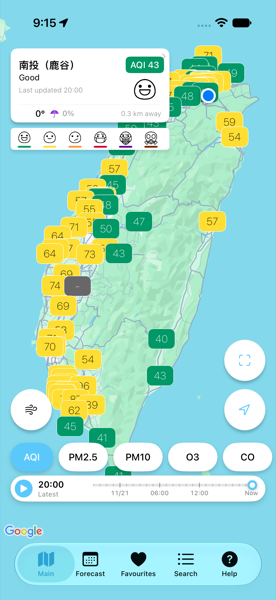
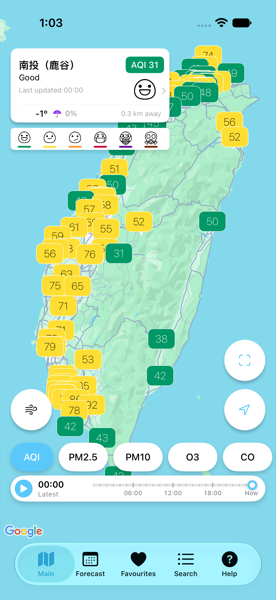
TWAQ-11: chevron beside the face so a long value pill never covers it

diff --git a/ios/TWAQI/Views/Main/ClosestStationView.swift b/ios/TWAQI/Views/Main/ClosestStationView.swift
@@ -322,8 +322,9 @@ final class ClosestStationView: UIControl {
         chevron.isHidden = !isEnabled
         addSubview(chevron)
         chevron.snp.makeConstraints { (make) -> Void in
+            // Beside the face, where the 72pt column has room even for a long pill.
             make.right.equalTo(self).offset(-5)
-            make.top.equalTo(self).offset(6)
+            make.centerY.equalTo(imageView)
             make.width.equalTo(8)
             make.height.equalTo(12)
         }
